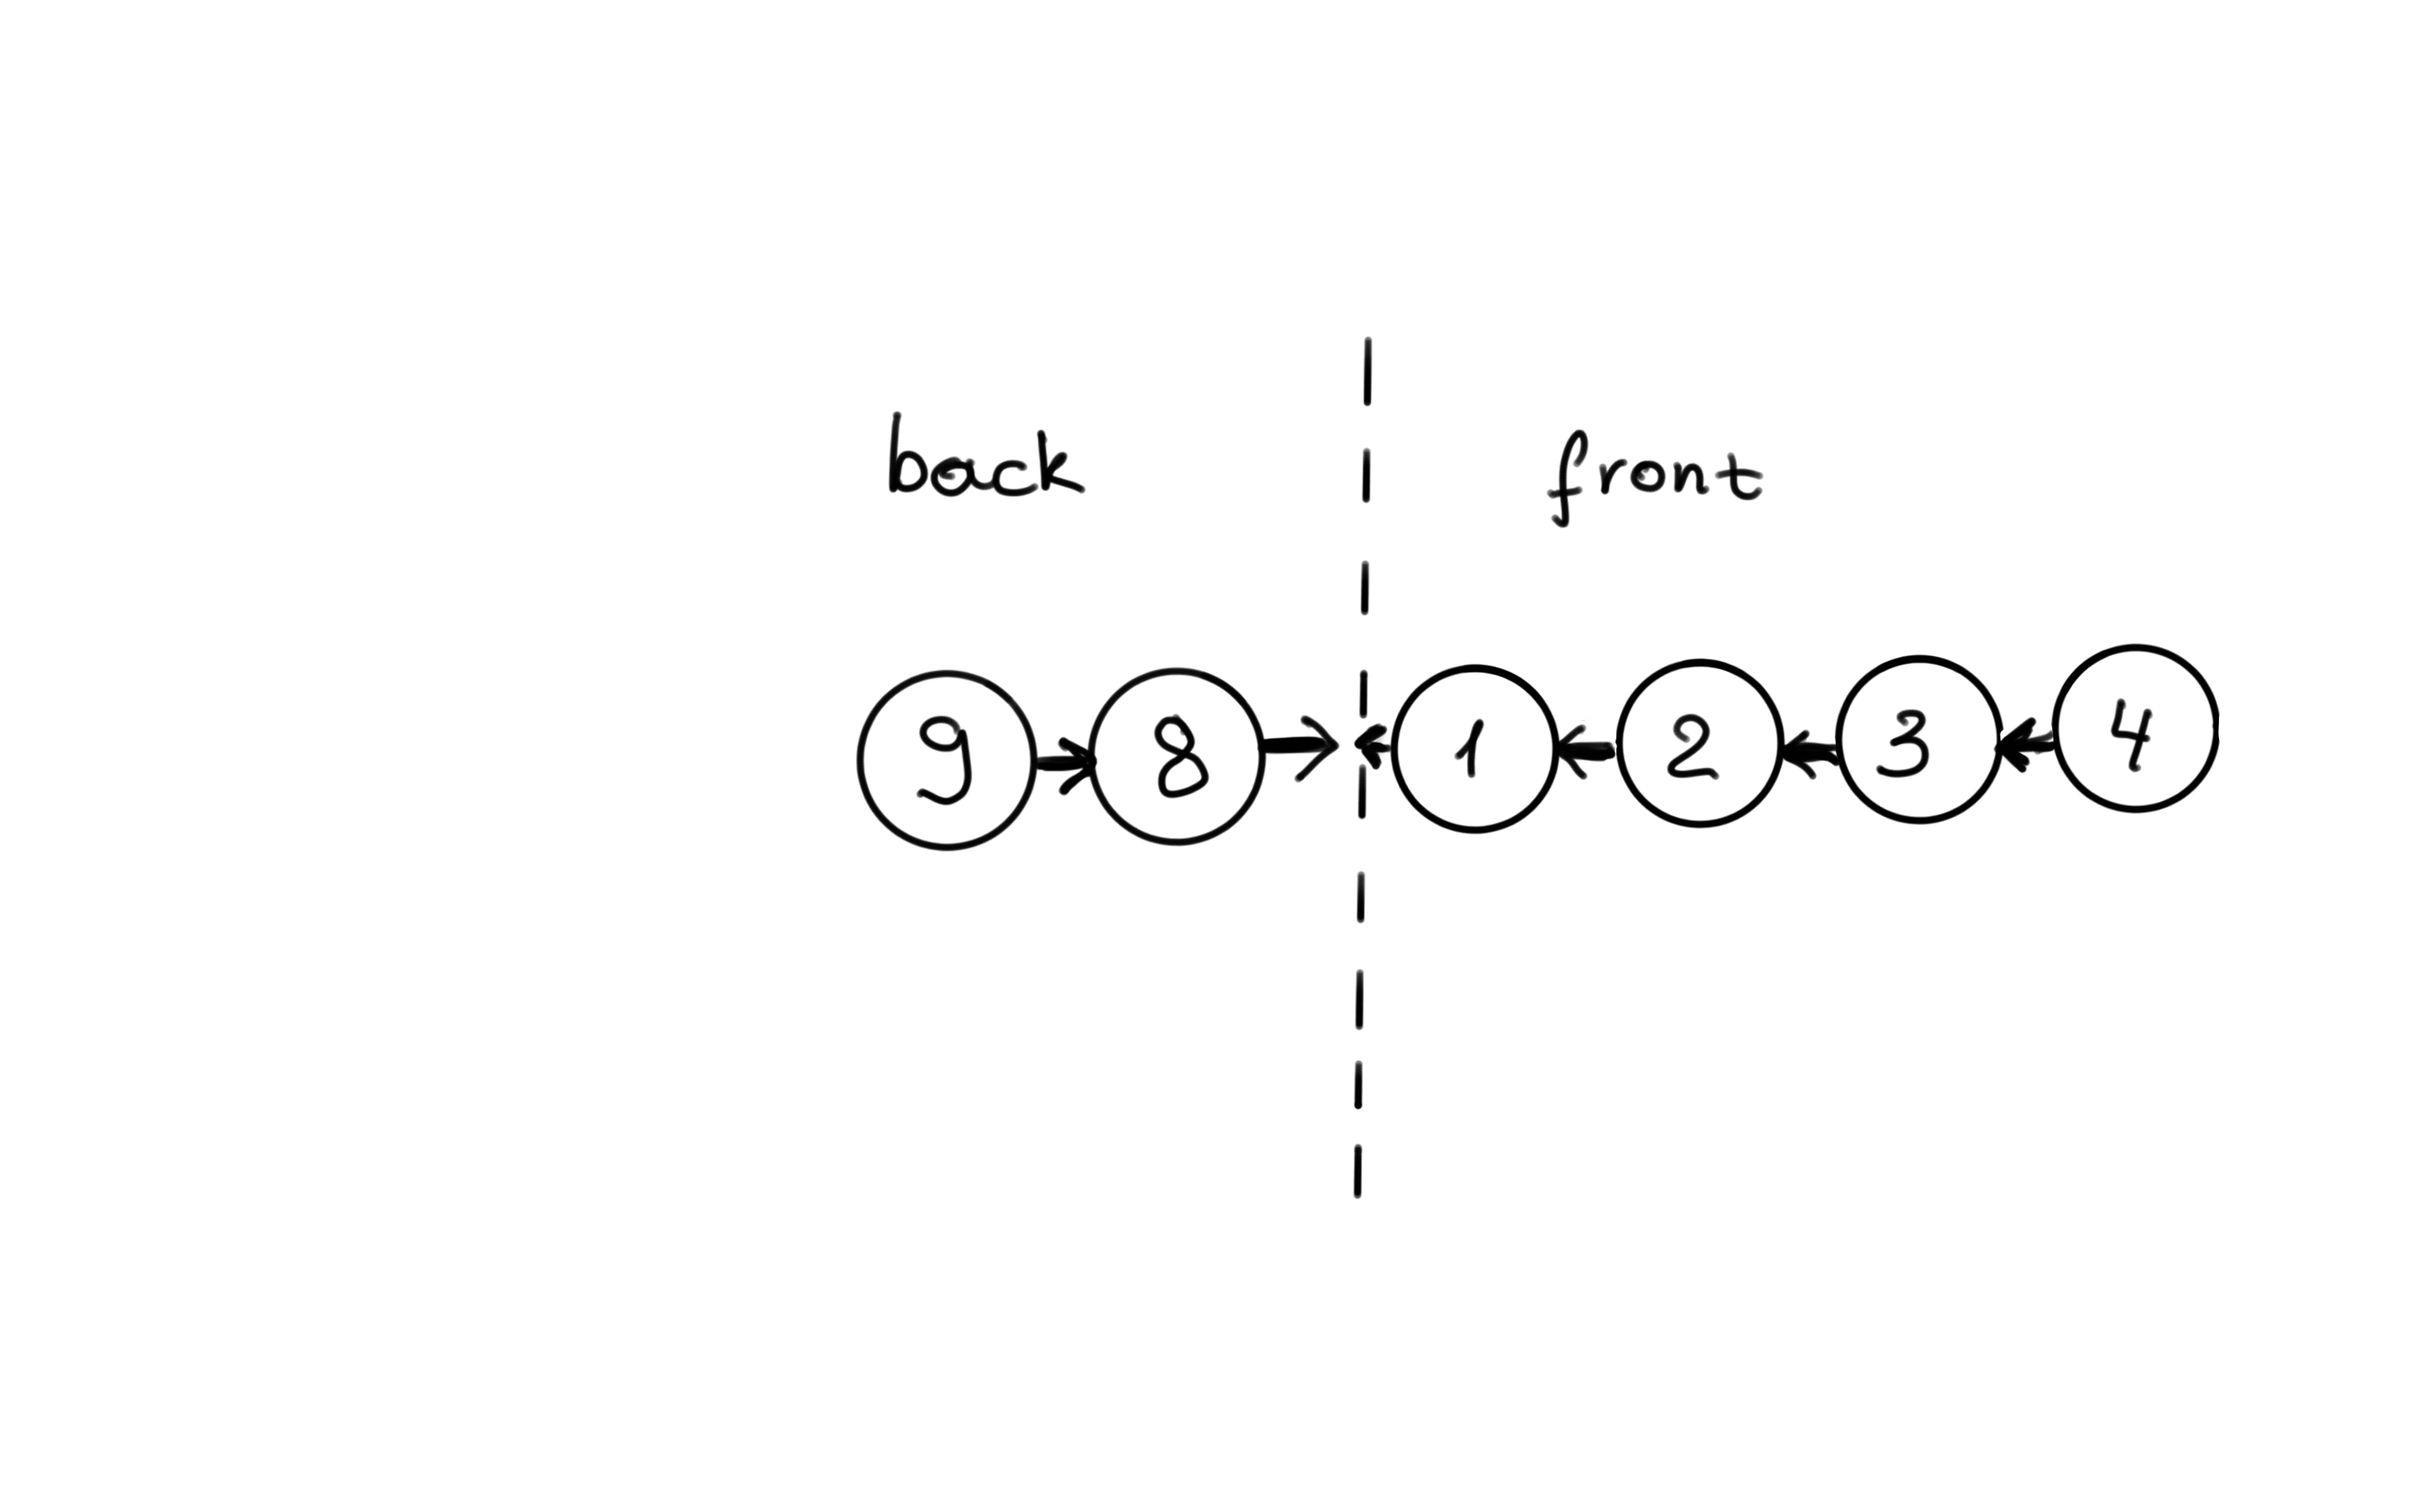
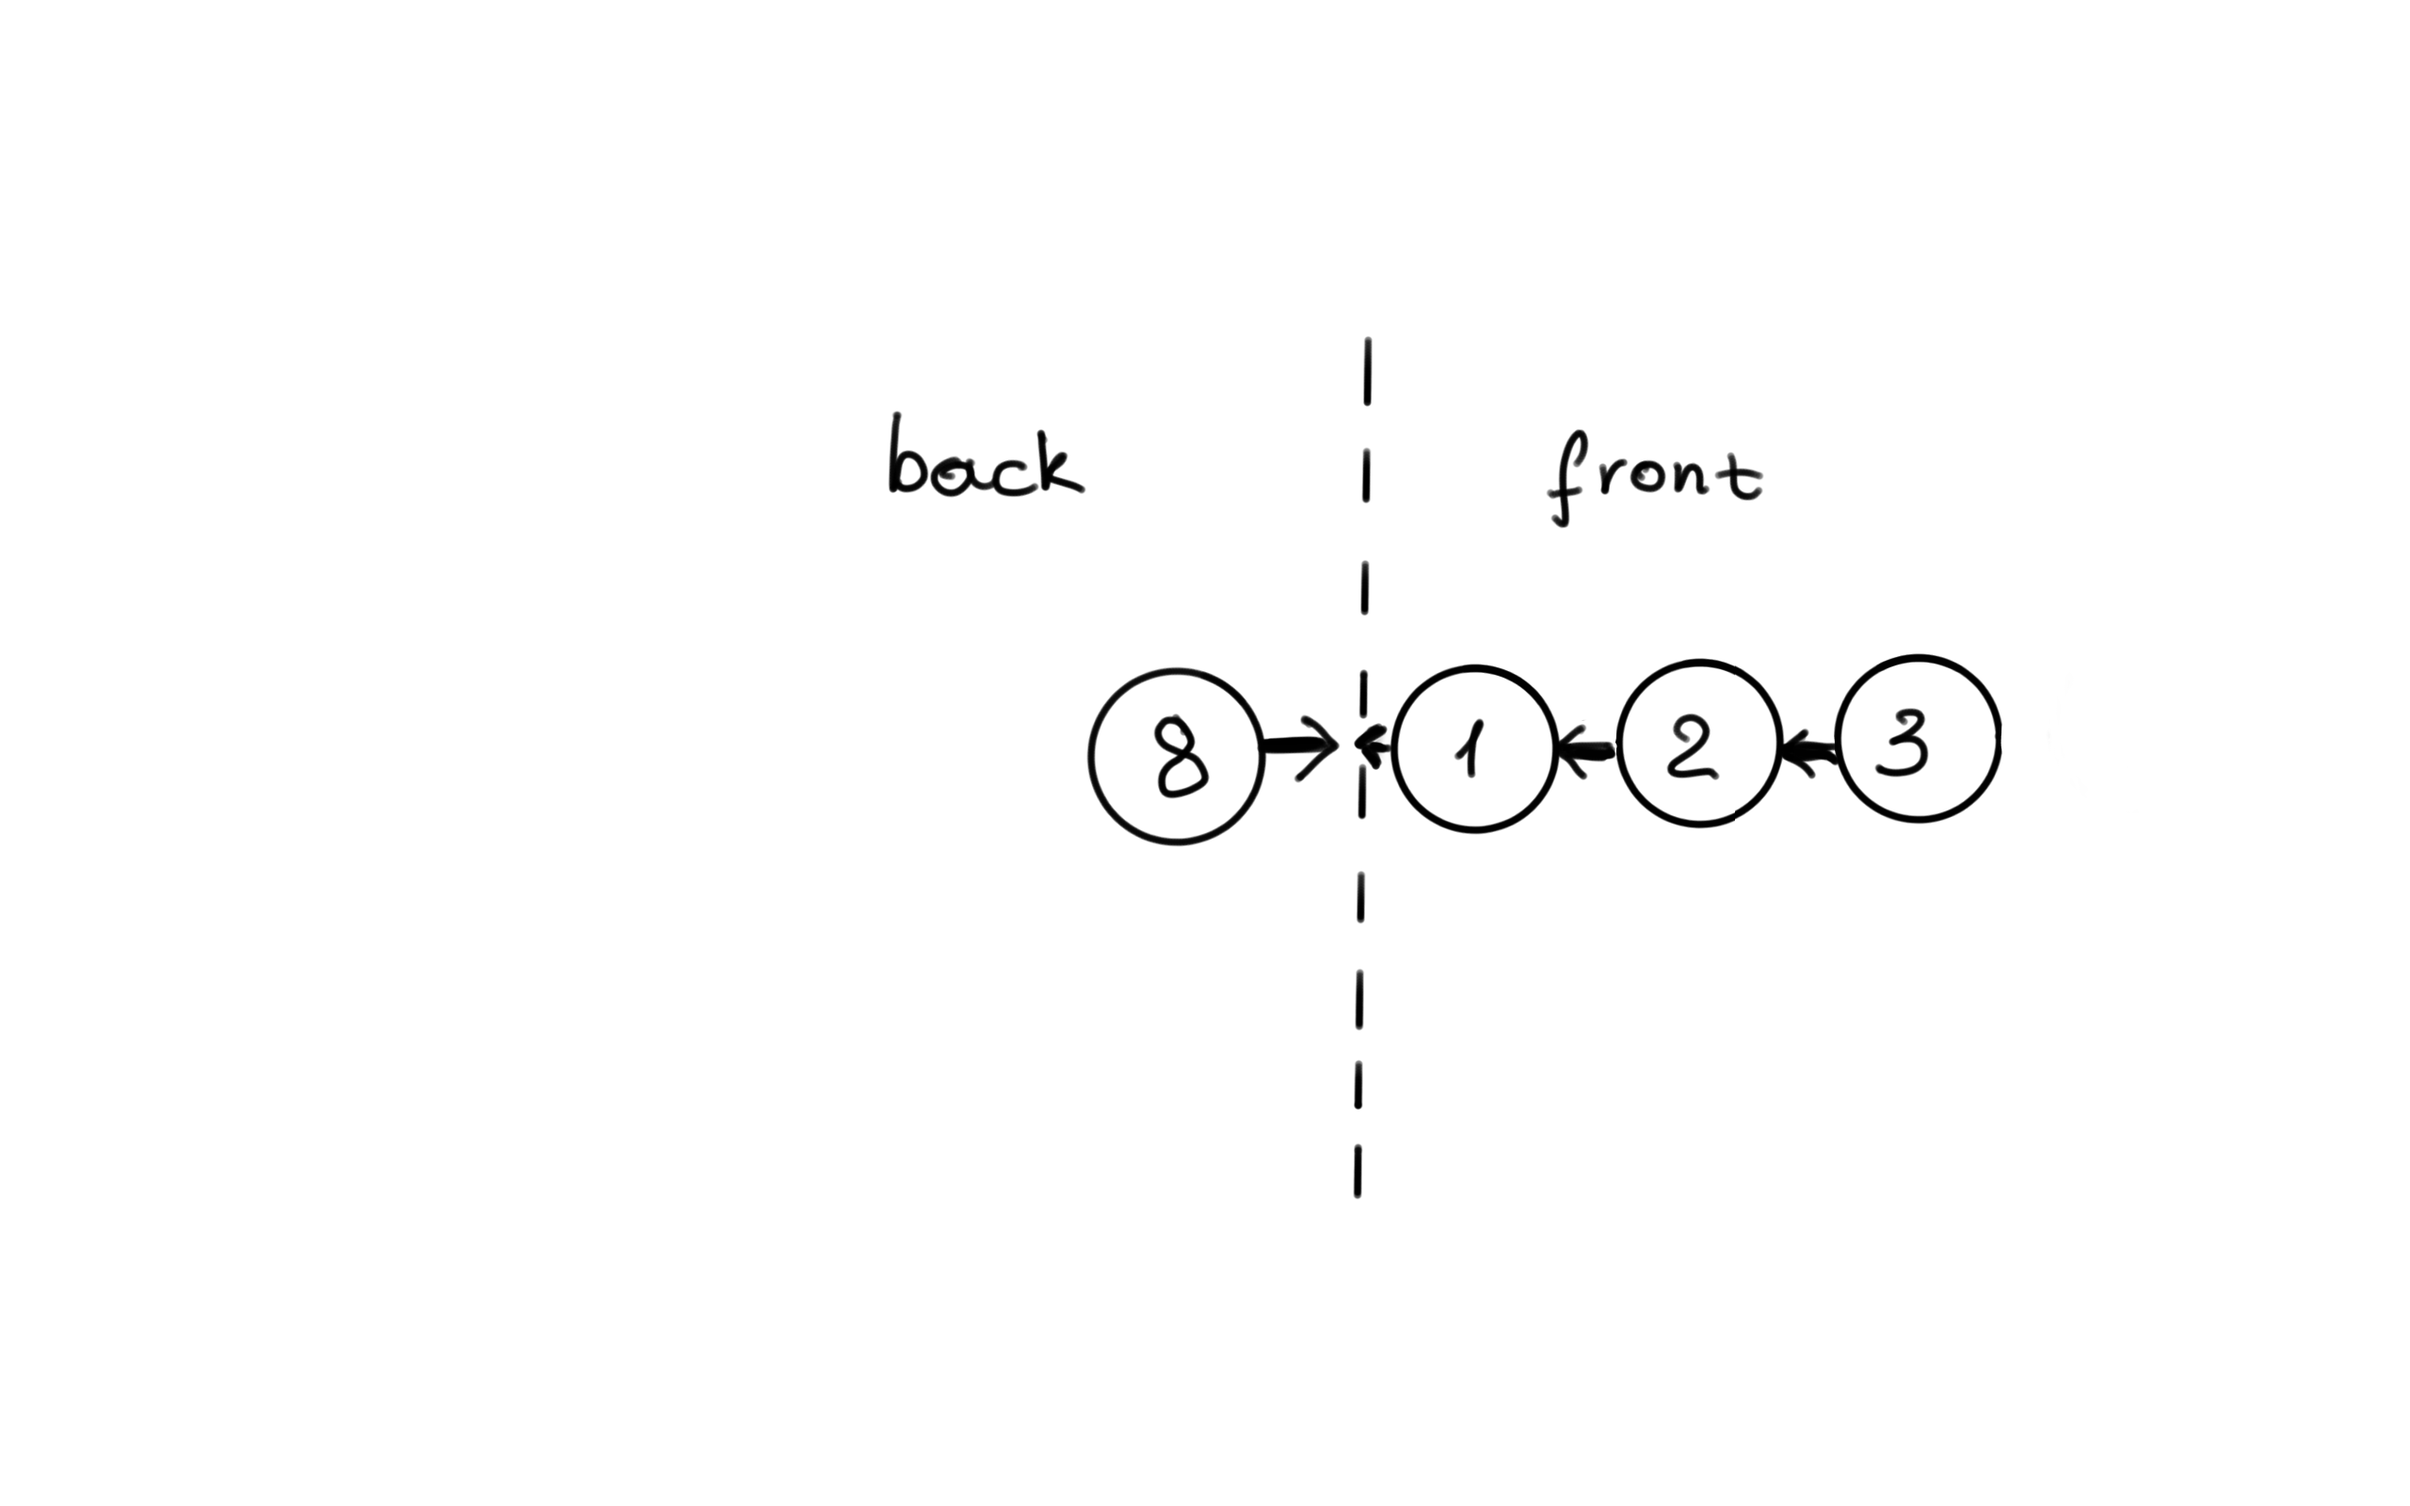
fixed pictures with functional deque

diff --git a/06_advanced-data-structures-2/index.html b/06_advanced-data-structures-2/index.html
@@ -241,6 +241,15 @@
                 <img height="400" src="img/ads-03-deque-8.png"/>
             </script>
         </section>
+        <section data-markdown="" data-transition="none">
+            <script type="text/template">
+                ### Functional deque, 9
+                1. putFirst, putLast
+                2. takeFirst, takeLast
+
+                <img height="400" src="img/ads-03-deque-9.png"/>
+            </script>
+        </section>
 
 
         <section data-markdown="">
